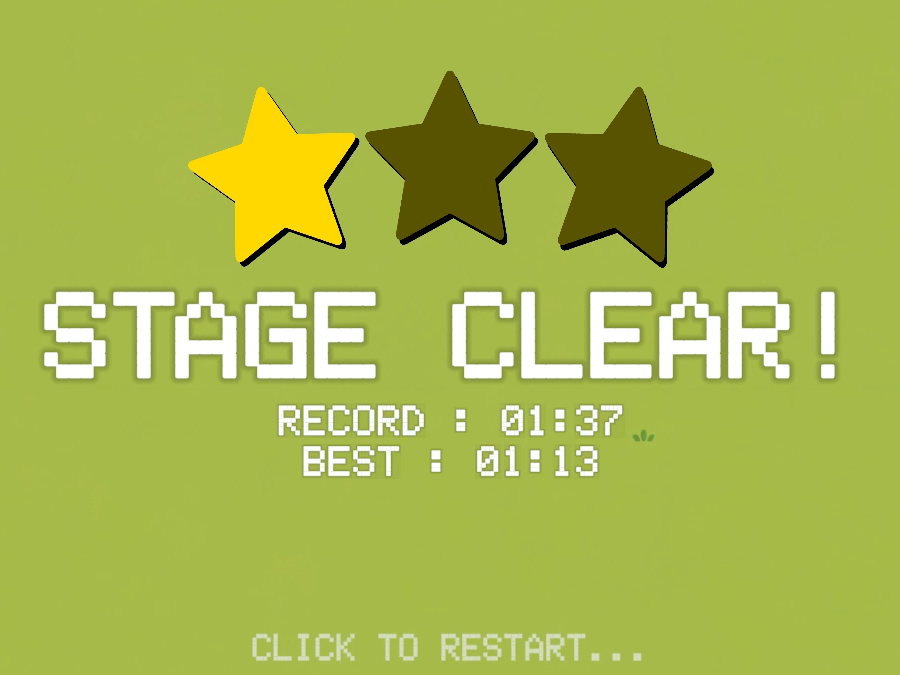
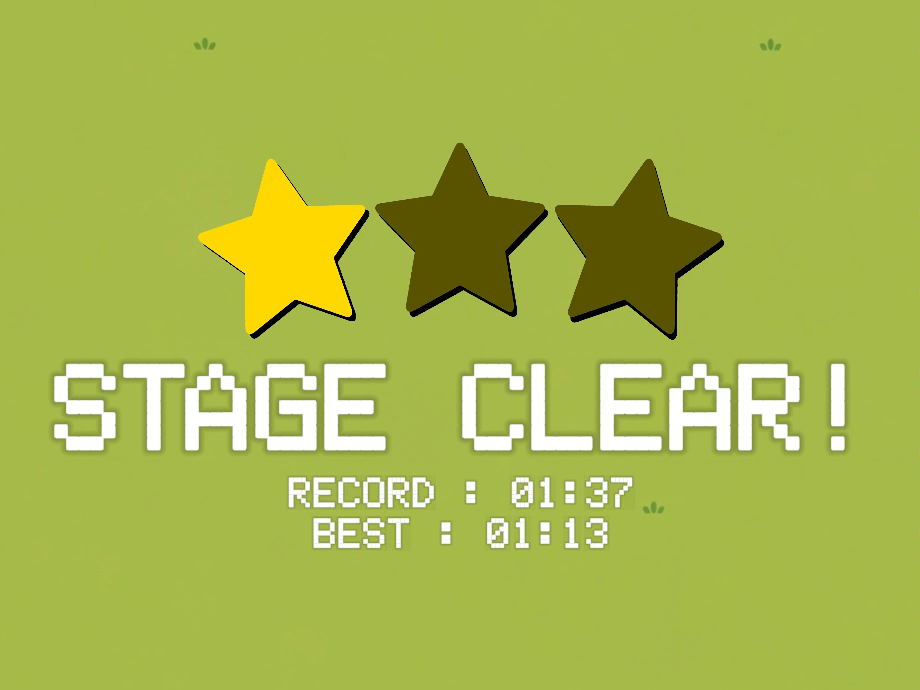
기능 소개 캡션 간소화: 사천성·Arcanist 캡션 8개 줄임, 사천성 클리어 화면 다시 자름, 빌드 시 기능 소개 유지 규칙
- 사천성·Arcanist 기능 소개 이미지 캡션을 한 줄로 줄임 (기술 문서의 이미지 설명은 그대로)
  사천성: 보드 외곽으로 연결된 경로 / 연결 가능한 쌍이 없어 재배치 중인 화면 / 연결선이 그려진 순간 / 클리어 결과 화면
  Arcanist: 패링 성공 이펙트 / 화염구 사용 장면 / 보상 카드 선택 화면 / 골렘 레이저 패턴
- 사천성 result-clear.png를 920×690으로 다시 자름: 별 중심 정렬, 별 상단과 BEST 하단 여백 동일, 좌우 여백 약간 늘림 (data의 이미지 크기도 갱신)
- 빌드 스킬(SKILL.md, schema.md): 기능 소개 이미지 캡션은 명사형 12자 안팎으로 줄이는 규칙, 다시 빌드할 때 기존 기능 소개(구성·순서·문구·캡션)는 해당 절이 문서에 그대로 있으면 유지하는 규칙 추가

diff --git a/.claude/skills/portfolio-build/schema.md b/.claude/skills/portfolio-build/schema.md
@@ -115,7 +115,7 @@
 | `links.*` | 문서·profile에 있는 URL만. `#`·빈 링크는 `""` + 리포트 **권장**. 저장소가 여럿이면 주 저장소를 `github`, 나머지는 `extra`(예: `서버 GitHub`). 기획서·전체 플레이 영상 등도 `extra` |
 | `schemaVersion` | `2`. 이 값과 `deck`이 있으면 발표 덱은 `deck`대로 그리고, 없으면(예전 데이터) 핵심 구현·이슈 해결로 **자동 구성**합니다(아래 「발표 덱」) |
 | `intent` | 포트폴리오 문서·발표 덱 표지의 프로젝트 소개에 나오는 "개발 의도". `{ "text", "verbatim" }`(아래 「글 조각」). 문서의 Why(왜, 무엇에 집중했나) 문단에서. 없으면 `null` |
-| `highlights` | **2~4개**(포트폴리오 문서의 기능 소개용). 핵심 시스템·기능, 또는 구조 섹션의 중요한 설계 결정. `why`는 같은 기능의 "고민과 선택" → 없으면 코드의 `(Why)` 주석·본문 설명 → 그래도 없으면 `""` + 리포트 **필수**. `how`와 `why`는 **같은 결정**을 말해야 함. `image`(선택): 그 기능 절(`section`)에 실제로 있는 이미지 하나 `{ "src", "w", "h", "caption" }` — 없으면 `null` |
+| `highlights` | **2~4개**(포트폴리오 문서의 기능 소개용). 핵심 시스템·기능, 또는 구조 섹션의 중요한 설계 결정. `why`는 같은 기능의 "고민과 선택" → 없으면 코드의 `(Why)` 주석·본문 설명 → 그래도 없으면 `""` + 리포트 **필수**. `how`와 `why`는 **같은 결정**을 말해야 함. `image`(선택): 그 기능 절(`section`)에 실제로 있는 이미지 하나 `{ "src", "w", "h", "caption" }` — 없으면 `null`. `caption`은 카드 이미지 아래 한 줄 라벨이라 alt를 명사형 12자 안팎으로 줄여 씀(압축 → "확인해 주세요"). 다시 빌드할 때 기존 `highlights`는 `section`이 문서에 그대로 있으면 유지(구성·순서·문구·캡션을 사용자가 정했을 수 있음) |
 | `troubleshooting` | **0~3개.** 트러블슈팅 섹션 우선, 없으면 본문의 문제→해결 서술. `result`는 **해결 뒤 달라진 점**만 — 없으면 `""` + 리포트 권장(배운 점을 `result`로 옮기지 않음). 배운 점·회고는 `lesson`. 한 절에 사례가 2개면 하나로 묶어도 됨 |
 | `screenshots` | (예전 데이터의 자동 구성용) **최대 6장**, 이미지 파일(`.png .jpg .jpeg .gif .webp`)만. 6장보다 많으면 `highlights` 기능의 화면 우선 + 기능이 겹치지 않게. `caption`은 alt → 짧으면 주변 제목·표 머리와 조합(조합했으면 "확인해 주세요") |
 | `retro` | 문서의 결과·회고 섹션에서. 각 배열 1~4개. 4개보다 많으면 개요의 Why와 관련이 큰 순. `regrets[i]`와 `plans[i]`는 같은 항목끼리 짝. `section`: 회고 절 제목 그대로(없으면 `""`) |

diff --git a/.claude/skills/portfolio-build/SKILL.md b/.claude/skills/portfolio-build/SKILL.md
@@ -46,6 +46,10 @@ argument-hint: "[프로젝트 폴더 이름 (생략하면 전체)]"
 - `highlights`: 문서의 **핵심 시스템/기능 섹션**에서 2~4개. `why`는 같은 기능의 "고민과 선택"에서 찾습니다.
   흩어져 있으면(B형 문서) 해당 기능 근처의 선택 근거를 씁니다. 근거가 없으면 `""`.
   `image`: 그 기능의 `section` 절 안(표 밖)에 **실제로 있는** 이미지 하나(`src`·`w`·`h`·`caption`). 그 절에 이미지가 없으면 `null` — 다른 절의 그림을 가져오지 않습니다.
+  `image.caption`은 기능 소개 카드 이미지 아래에 한 줄로 나오는 라벨이라(오른쪽에 기능 제목·설명이 이미 있음) 이미지 설명(alt)을 **명사형 12자 안팎으로 줄여** 씁니다 — 무엇이 보이는 화면인지만, 동작 설명·부연("~하는 장면", "— …")은 뺌. 게임 화면의 이름(예: Reshuffling)은 그대로. 줄였으면 리포트 "확인해 주세요"에 넣습니다(기술 문서의 alt는 그대로 둠).
+  **다시 빌드할 때 기존 기능 소개를 유지합니다**(사용자가 정한 것일 수 있음): `data/projects/<id>.json`에 `highlights`가 이미 있으면 **먼저 읽고**, 항목의 `section`이 지금 문서에 제목으로 그대로 있으면
+  그 항목의 **구성·순서·`title`·`what`·`how`·`why`·`image`(`src`·`caption`)를 그대로 둡니다**(`w`·`h`만 파일에서 다시 읽음). 이 경우 기술 문서 첫머리 표의 핵심/보조 표시나 위 규칙으로 다시 고르지 않으며 캡션도 다시 줄이지 않습니다.
+  `section`이 문서에서 사라졌거나 그 절의 이미지가 없어졌을 때만 그 항목을 규칙대로 다시 만들고, 그 사실을 리포트 "확인해 주세요"에 적습니다(예: "기능 소개 3번 〈…〉의 절이 없어져 새로 골랐습니다"). 항목을 더 늘리거나 바꾸는 것은 사용자가 요청할 때만 합니다.
 - `troubleshooting`: 문서의 트러블슈팅에서 임팩트가 큰 순으로 최대 3개.
 - `screenshots`: `images/`에 **실제로 있는** 파일 중, 서로 다른 기능을 보여주는 최대 6장. 커버와 겹치지 않게.
 - `retro.section`: 결과·회고 절의 제목 글자 그대로(없으면 `""`).
